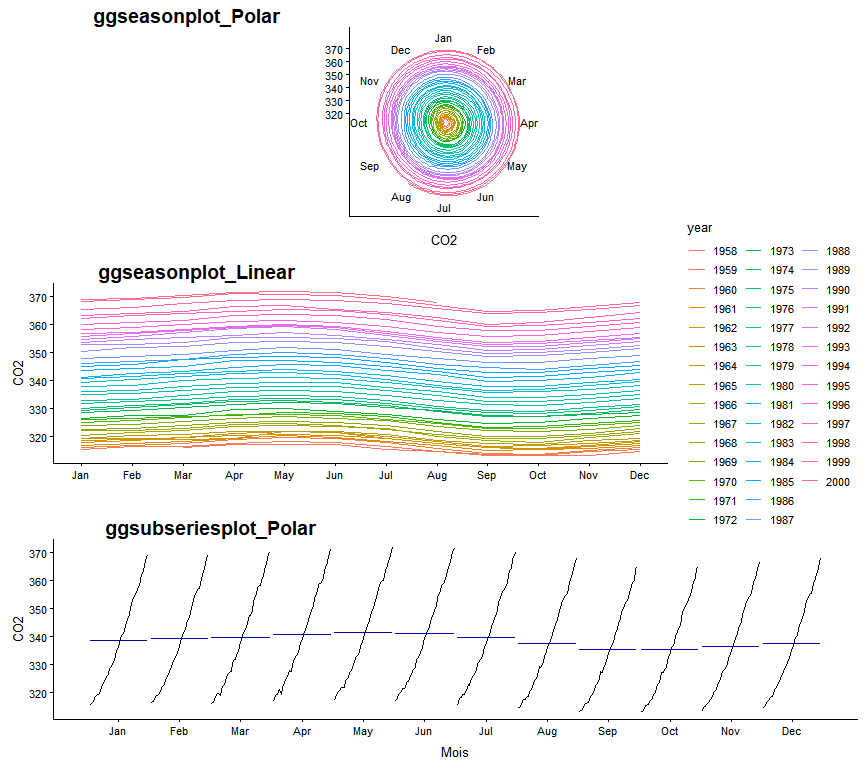
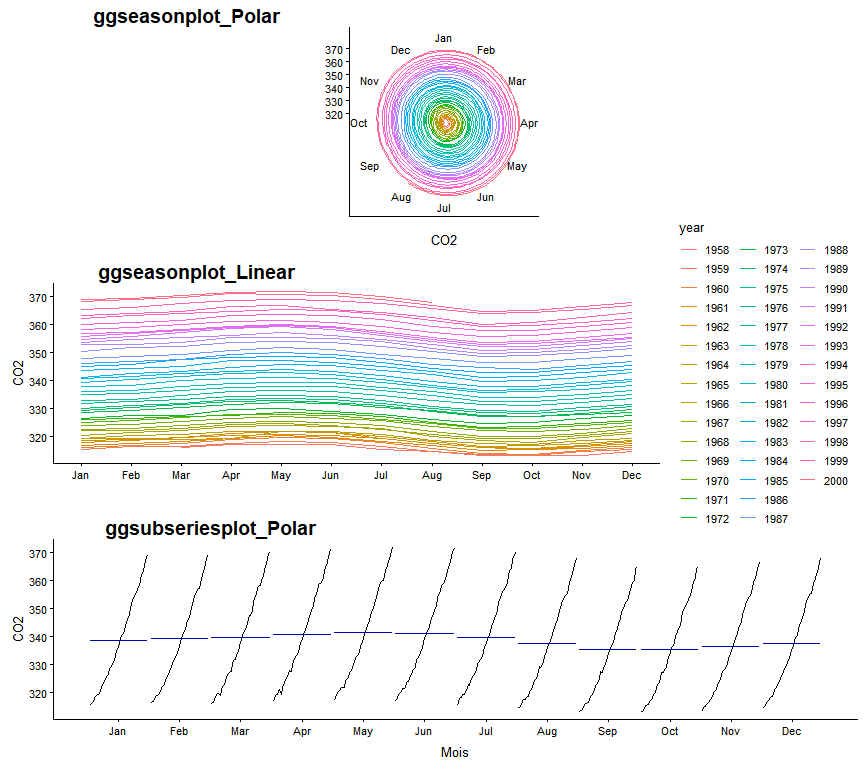
Modification du fichier source.rmd et mise à jour importante de README

diff --git a/Analyse_ts_Et_Reprod.md b/Analyse_ts_Et_Reprod.md
@@ -1,7 +1,7 @@
 Séries temporelles et Reproductibilité
 ================
 Mandela M. Jacques - 111 224 204
-Analyse et modélisation d'agroécosystèmes `-` 2019-04-03
+Analyse et modélisation d'agroécosystèmes `-` 2019-04-04
 
 <font size="3">
 
@@ -73,7 +73,7 @@ Les graphiques suivants réalisés avec les fonctions ggseasonplot et ggsubserie
 
 library(cowplot)
 
-theme_set(theme_cowplot(font_size = 10, font_family = " ", line_size = 0.1))     ## cowplot change le theme
+theme_set(theme_cowplot(font_size = 10, font_family = "", line_size = 0.1))     ## cowplot change le theme
 plot1 <- ggseasonplot(window(hawai_ts, 1958+2/12, 2001-5/12)) + 
   labs(y="CO2", x = " ", title = " ")
 plot2 <- ggseasonplot(window(hawai_ts, 1958+2/12, 2001-5/12), polar = TRUE) + 
@@ -344,6 +344,10 @@ Conclusion
 ----------
 
 **forecast** constitue un puissant outil de modélisation des séries temporerelles. Elle est basée sur la même méthode des modèles d'apprentissage automatique en segmentant les données en une partie d'entrainement du modèle et une partie pour tester ce dernier. Deux fonctions très importants dans la prévision avec forecast sont ets et auto.arima. Elles sont basées sur le lissage exponentiel et l'analyse auto-régressive. Dans le cadre de ce travail, la fonction arima a permis de développer un modèle plus performant que celui réalisé avec ets. La forte tendance et la saisonnalité sont alors mieux capturer par la fonction auto.arima. Ce qui permet d'obtenir une distribution des résidus avec une probabilté de plus de 30 % pour qu'elle soit un bruit blanc.
+
+``` r
+warnings()
+```
 
 ------------------------------------------------------------------------
 

diff --git a/README.md b/README.md
@@ -1,4 +1,5 @@
 # Analyses_TS
+
 Analyses et commentaires sur la prévision des séries temporelles
 
 Ce travail vise un double objectif  qui consiste à :
@@ -6,5 +7,12 @@ Ce travail vise un double objectif  qui consiste à :
  	1. Améliorer notre capacité à manipuler et à modéliser les séries temporelles;
  	2.  Nous rendre familiers avec les logiciels de gestion des versions en vue de créer des documents reproductibles et ouverts à tous. 
  	
-Ce travail sera maintenu sur github par l'intermédiaire du logiciel Git intégré à RStudio.
+NB. Le jeu de données a été modifié manuellement à la ligne 4 pour transformer 1959 en 1958. Mais, la limitation de la série à juillet 2001 a été faite directement sur R.
+
+Les avertissements obtenus lors de l'exécution du fichier .Rmd sont dus au chargement des packages.	
+
+
+
+ 	
+Ce travail est rendu public et maintenu sur mon compte github par l'intermédiaire du logiciel Git intégré à RStudio. Alors, il n'est plus important de passer par Github desktop pour modifier le référentiel "Analyse_ts_Et_Reproductibilite".
 
